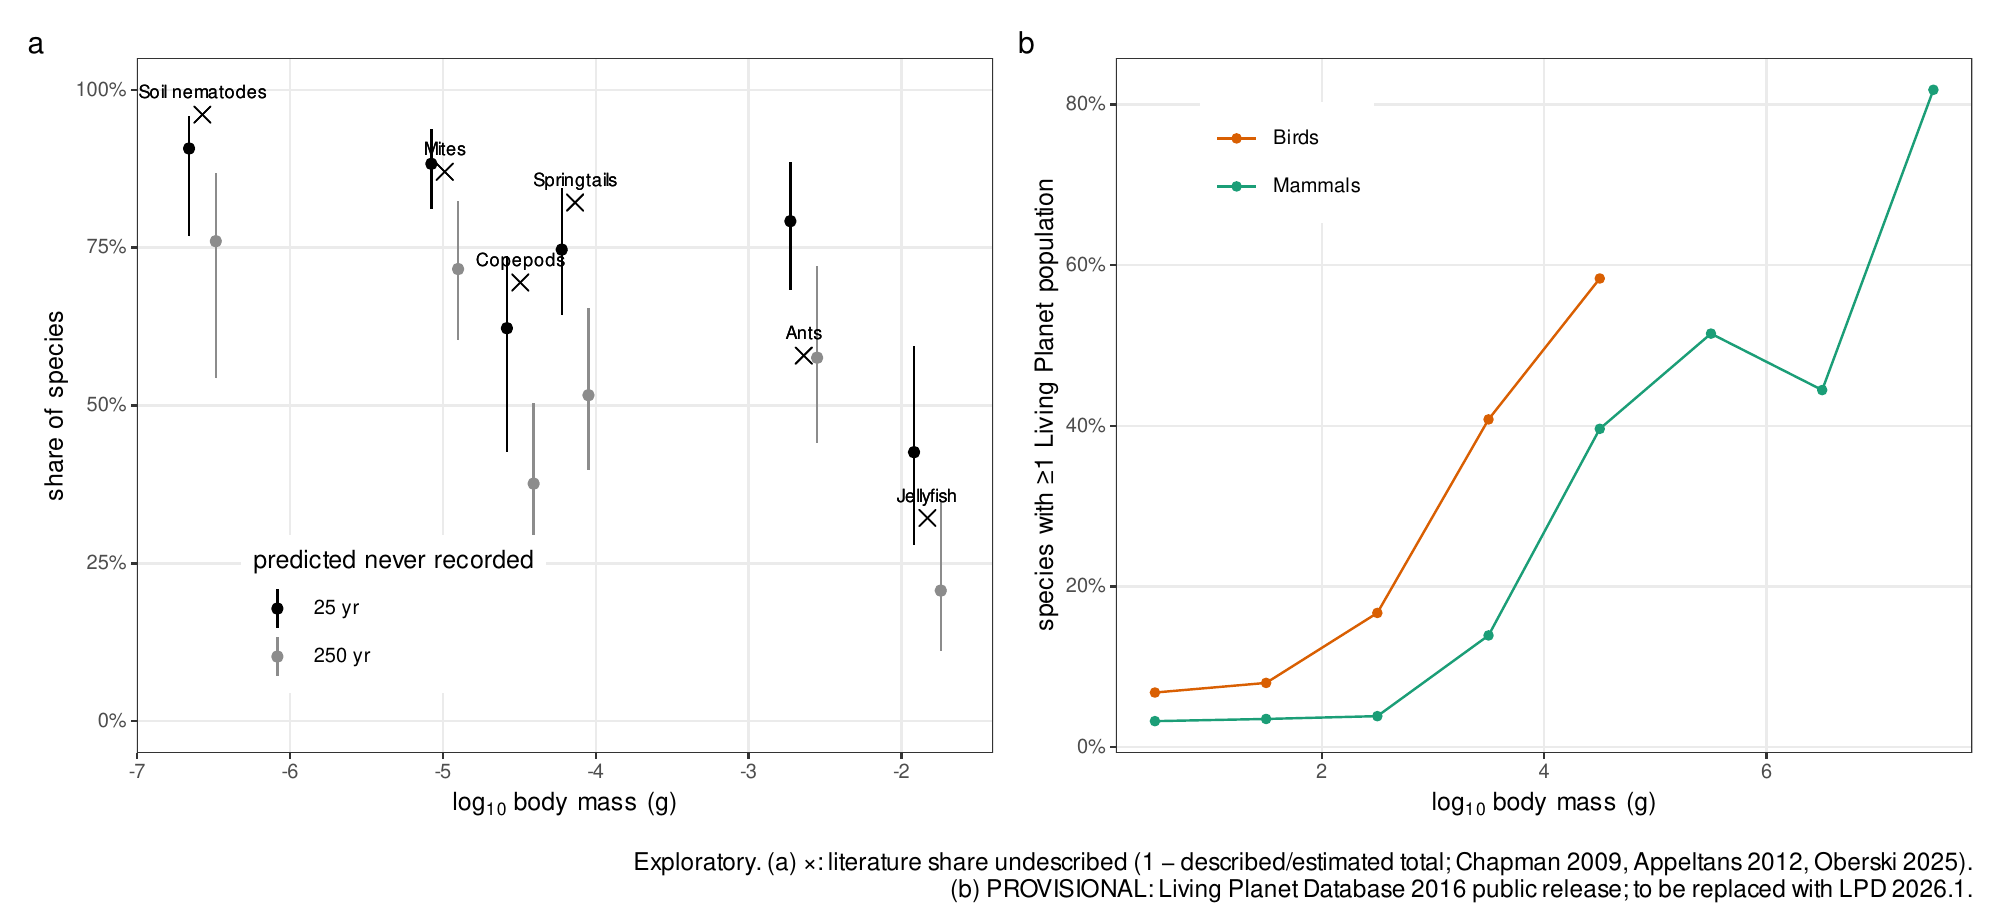
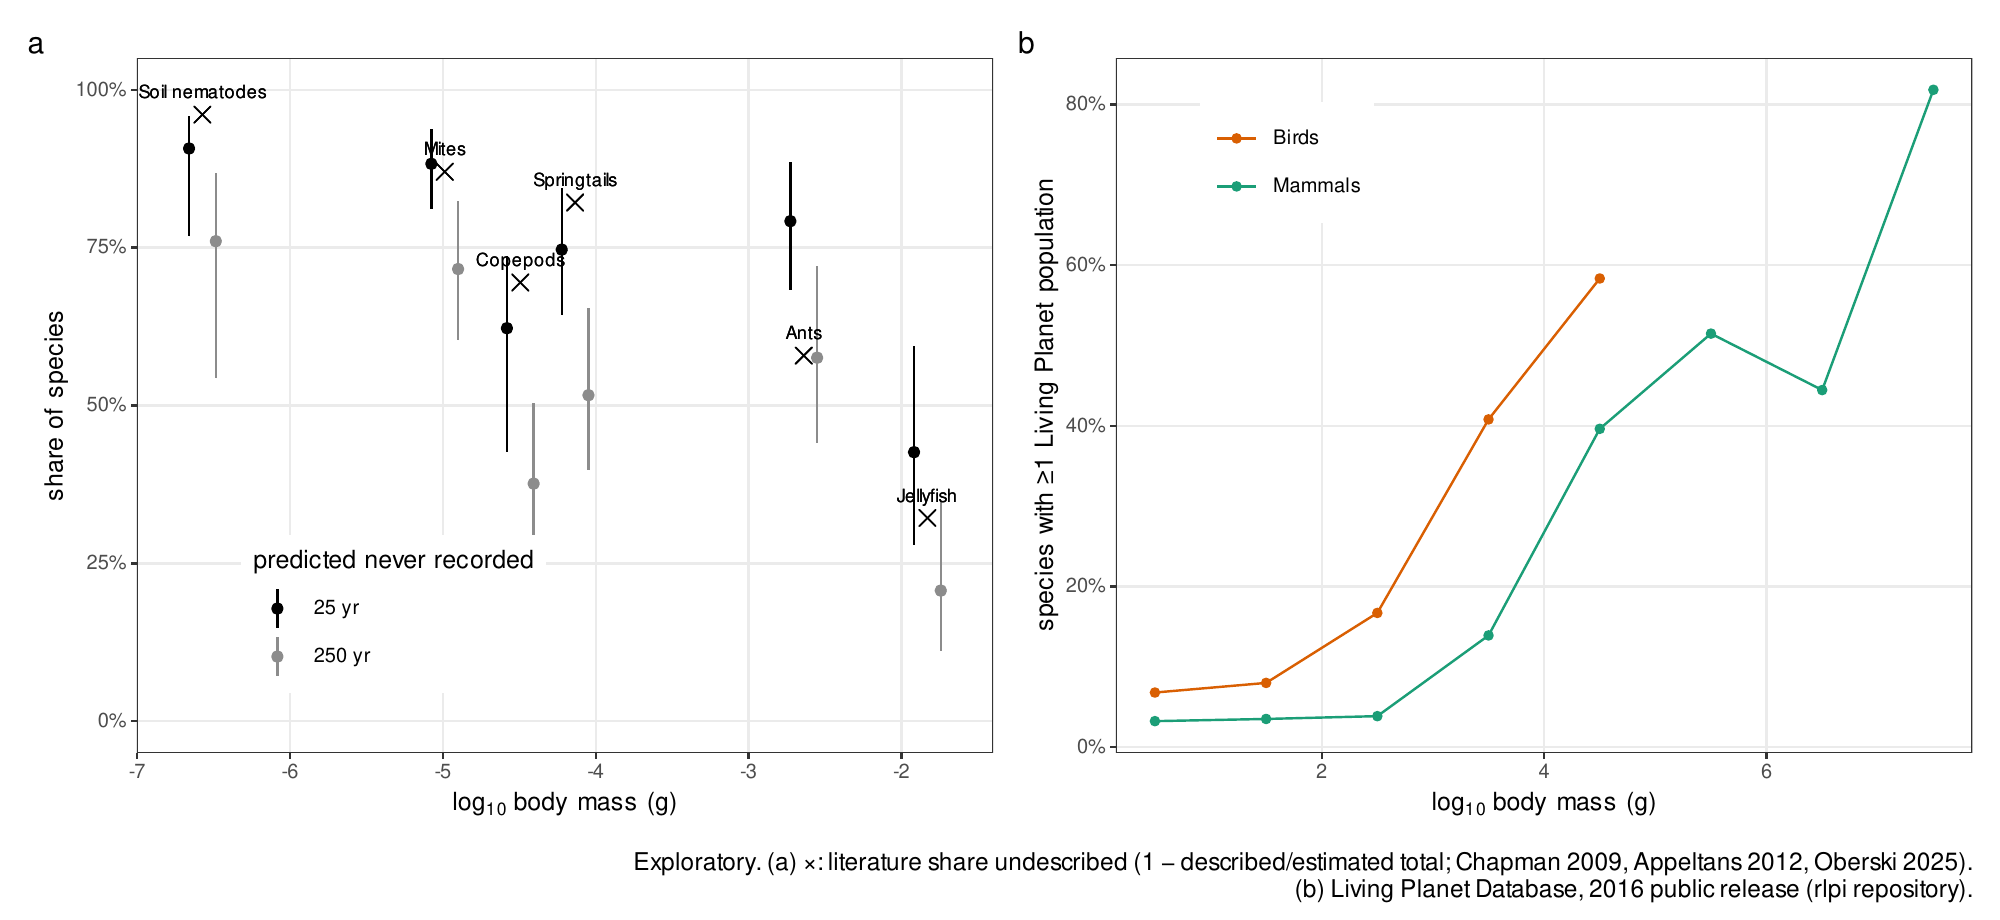
Japanese results summary; LPD 2016 accepted as final LPI data

Changed region(s): [[0.465, 0.9435, 0.992, 0.9739]]

diff --git a/reports/results_summary_ja.md b/reports/results_summary_ja.md
@@ -1,0 +1,85 @@
+# 結果のまとめ：観測の不平等のスケーリングと、減少の検出（2026-11-03）
+
+[事前登録] = PREREG v1.0 に従った解析、[探索的] = PREREG 外。数値の出典は `reports/summary.md` を参照。
+
+---
+
+## 1. 1 個体あたりの記録数は体重の約 0.7 乗でスケールする
+
+観測記録と独立に推定された全球個体数を持つ 10 グループ（土壌線虫、ダニ、カイアシ類、トビムシ、ヒメミミズ類、アリ、翼足類、クラゲ、ナンキョクオキアミ、中深層魚）について、GBIF の記録数（2026-11-01 スナップショット、2000〜2024 年）を個体数で割った。体重は約 7 桁（5×10⁻⁷〜3 g）にわたる。センサスの不確実性を説明変数と目的変数の両方に入れた回帰（errors-in-variables）を用いた。
+
+* 1 個体あたりの記録数 r は、体重の **0.72 乗**でスケールした（95% 信用区間 0.49〜0.94、ベイズ R² = 0.90）[事前登録]。
+  * 区間の幅（0.45）は、事前に決めた「きれいなスケーリング」の基準（幅 < 0.3）より広かった。そのため「精度は限られるがスケーリングはある」と判定した。
+* この傾きは、**見つけやすさが投影面積だけで決まる場合の予測（2/3）と区別できなかった**（β が 2/3 を 0.2 以上上回る確率 0.09）[事前登録]。
+  * 小型の動物の範囲では、記録の偏りの大部分は「見えやすさ」で説明でき、人間の関心による上乗せを持ち出す必要はない。
+* 結果は頑健だった。センサスの選び方、分類群の対応規則、不確実性の既定値、1 グループずつの除外、iNaturalist の除外など 13 通りの感度分析で、β は 0.60〜0.84 に収まった [事前登録]。
+
+## 2. 脊椎動物は、その直線から 4〜5 桁上に外れる
+
+* 鳥類と陸生哺乳類をグループとして加えると、傾きは 1.27 [1.07, 1.48] に急になった [事前登録の感度分析]。ただし、両者の全球個体数は観測記録や体重からの推定なので、循環がある。
+* そこで、**観測記録と独立な個体数推定を持つ哺乳類の種**で確かめた [探索的]。
+  * 調査や漁獲モデルに基づく海生哺乳類と大型獣（サイ 4 種、ゾウ）の 52 種は、10 グループの直線を延長した線より **log10 で 3.8 桁上**にあった（直線の不確実性を入れた 95% 区間 1.7〜5.9）。
+  * 個体数報告に基づく陸生哺乳類 389 種は **4.9 桁上**だった（3.2〜6.7）。
+* **脊椎動物に対する「関心の上乗せ」は、循環のないデータでも残った。** たとえばザトウクジラでは、25 年間に 1 個体あたり約 7 件の記録がある（写真による個体識別のカタログが寄与していると考えられる）。
+* 哺乳類の種の間での傾きは 0.32 [0.18, 0.47] で、分類群をまたぐ傾き（0.72）より緩かった [事前登録]。記録の偏りは、種の違いより分類群の違いで大きく決まっている。
+
+## 3. DNA 由来の記録は体サイズへの偏りが小さい
+
+* DNA 由来の記録の傾き（0.51）は、人による観察記録の傾き（0.75）より小さかった（その事後確率 0.935）[事前登録]。27 通りの感度分析のうち 23 通りで同じ結論だった。
+* 環境 DNA などは、小型の生物の観測の偏りを部分的に埋めていると考えられる。
+
+## 4. 日和見的な記録には「検出の下限」がある
+
+* 種ごとの年記録数は、年によって大きくばらついた。哺乳類 382 種での負の二項分布の形状パラメータは **φ = 0.69** [0.66, 0.71] [事前登録]。
+  * 記録数が多くても変動係数は 1 を超えたままで、年 1,000 件以上記録される種でも φ は 1 未満で頭打ちだった [探索的]。
+  * 無脊椎動物ではさらに小さかった（φ = 0.06〜0.8）[探索的]。
+* このため、努力量の変化を補正する最良の方法でも、**「10 年で 30% の減少」を検出力 0.8 で検出するには約 44 年かかり**、記録数をいくら増やしてもこれより短くならなかった（10 年で 50% の減少なら約 28 年）[事前登録]。
+* **年 0.3 件未満しか記録されない種は、100 年かけても減少を検出できなかった** [事前登録＋探索的]。
+* 事前登録した H3（検出の遅れが体サイズで構造化される）は、判定規則には形式上当てはまった。しかし実際には、10 グループのどのサイズでも 25 年以内には検出できず、**サイズによる違いは示されなかった**。規則が「すべてのサイズで失敗」という場合を想定していなかったためで、その旨を事前登録の変更履歴に記録した。
+* 種ごとの年記録数をそのまま使うと [探索的]、100 年以内に減少を検出できない記載種の割合は、体重に沿ってはっきり下がった：
+
+| グループ | 検出できない割合 |
+|---|---|
+| 線虫・ダニ・カイアシ類 | 95〜96% |
+| トビムシ | 92% |
+| アリ | 76% |
+| クラゲ・中深層魚 | 42〜49% |
+| 哺乳類 | 54%（小型）→ 5%（大型） |
+| 鳥類 | 1% 未満 |
+
+* 記録を「種 × 年ごとの占有 1° セル数」に集約すると、年変動は 2〜10 倍小さくなり、記録の多い種では検出が早まった（哺乳類 44 → 26 年）。それでも、年 1 件未満の種はどちらの方法でも検出できなかった [探索的]。
+* 種をまとめた指標（100 種）では、検出までが 10〜15 年に縮んだ。ただし種間の年変動を独立と仮定しているので楽観的な値である [探索的]。
+
+## 5. よく使われる簡便法は誤った傾向を出す
+
+減少のないシミュレーションで、次の結果になった [事前登録]：
+* 相対報告率（その種の記録数 ÷ 分類群全体の記録数）を二項モデルで検定すると、**約 3 割の系列で偽の「減少」**が出た。
+* 生の記録数を使うと、努力量が増えているグループで**最大 33% の偽の「増加」**が出た。
+* 努力量をオフセットに入れたモデルは、ほぼ名目どおり（5〜9%）だった。
+
+## 6. 帰結：未記載種と生物多様性指標の偏り
+
+* **未記載種** [探索的]：同じ観測モデルで「25 年間に一度も記録されない種の割合」を予測した。
+  * 予測値：線虫 91%、ダニ 88%、トビムシ 75%、クラゲ 43%。
+  * この並びは、文献の「未記載種の割合」（総種数の推定に対する未記載の割合）の順位とおおむね一致した。
+  * 予測は文献の値より低めだった。記録されることは記載の必要条件にすぎないので、予測は下限として読める。
+* **Living Planet Index（LPI）**（2016 年公開版）[探索的]：
+  * 対象の個体群はすべて脊椎動物で、無脊椎動物は含まれない。
+  * 哺乳類では、LPI に含まれる種の体重の中央値は全種の **105 倍**、個体群の数で重み付けすると **720 倍**だった。鳥類ではそれぞれ 3 倍と 12 倍。
+  * 世界の生物多様性の代表的な指標は、記録の偏りと同じ方向（大型の脊椎動物）に強く偏っている。
+
+---
+
+## 全体として言えること
+
+1. 小型の動物の範囲では、「どれだけ観測されるか」は体の大きさ（見えやすさ）でほぼ決まる。脊椎動物には、それとは別に 4〜5 桁の「関心の上乗せ」がある。
+2. 日和見的な観測記録だけでは、普通種でも減少の検出に 40 年以上かかる。記録の少ない小型生物の大半は、事実上、減少を検出できない。
+3. この偏りは、未記載種の分布や、世界の生物多様性指標の構成にも現れている。
+
+## 限界
+
+* 主解析は 10 グループで、主解析の中の脊椎動物は中深層魚だけ。脊椎動物の上乗せは探索的解析によるもので、主解析の直線を 4〜8 桁先まで延長して比べている。
+* 鳥類には、観測記録と独立な全球個体数推定がない（海鳥のコロニー調査は入手できなかった）。魚は資源単位の推定しかない。
+* 検出のシミュレーションは記録数（または占有セル数）の負の二項モデルに基づく。訪問構造を使う本格的な占有モデルは扱っていない。
+* LPI の分析は 2016 年公開版を使った。爬虫類の体重データは未入手。
+* 「記録」は個体ではない（1 記録が複数個体のことも、1 試料のこともある）。個体数で重み付けした感度分析では R² が 0.70 に下がった。

diff --git a/reports/summary.md b/reports/summary.md
@@ -19,7 +19,7 @@
 | 11 | 実務で使われる相対報告率（二項 GLM）は約 3 割の偽の減少を出す。生の記録数は努力量の増加で最大 33% の偽の増加を出す | `sim/control_false_trends.csv` | [P] | — |
 | 12 | 種をまとめた指標（100 種）では、検出までが 10〜15 年に縮む | `sim/explore_multispecies.csv` | [E] | 種間の年変動を独立と仮定しているので楽観的 |
 | 13 | 観測過程から予測した「一度も記録されない種の割合」は、文献の未記載割合と順位がおおむね一致する | 図 main_3a、`sim/h5_unrecorded.csv` | [E] H5 | 文献の総種数は不確実性が大きい |
-| 14 | Living Planet Index の種は大型に偏っている（哺乳類の中央値は全種の 105 倍、個体群で重み付けすると 720 倍）。無脊椎動物は 0% | 図 main_3b、`sim/lpd2016_mass_bias_summary.csv` | [E][暫定] | LPD 2026.1 で差し替え予定 |
+| 14 | Living Planet Index の種は大型に偏っている（哺乳類の中央値は全種の 105 倍、個体群で重み付けすると 720 倍）。無脊椎動物は 0% | 図 main_3b、`sim/lpd2016_mass_bias_summary.csv` | [E] | LPD 2016 公開版で確定（Doi 判断） |
 
 ## 残っている作業
 
